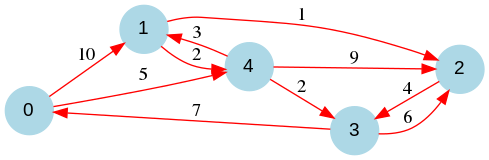
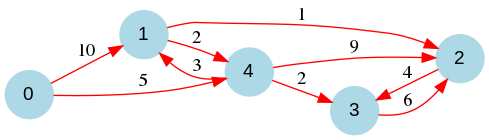
fichier .la to graph (exemple2) + Readme

diff --git a/programme2/adjacence_list.c b/programme2/adjacence_list.c
@@ -35,7 +35,6 @@ void addEdge(T_graphLA *g, int s, int d, int weight)
   // insert at the right place to have an ordered linked list
   if (g->tAdj[s] == NULL || g->tAdj[s]->vertexNumber >= d)
   {
-    //printf("\n%d\n",(int)g->tAdj[s]->vertexNumber);
     newNode->pNext = g->tAdj[s];
     g->tAdj[s] = newNode;
   }
@@ -163,48 +162,86 @@ T_graphLA *matToAdj(const char *filename)
   fclose(fp);
   return g;
 }
+
+T_graphLA *laToAdj(const char *filename)
+{
+  FILE *fp;
+  CHECK_IF(fp = fopen(filename, "r"), NULL, "fopen");
+
+  int ligne = 0, size = 0;
+  const char *separators = "\t\n";
+  char line[100];
+
+  // Parcours le file pour connaitre nb_lignes = graph size
+  FILE *fp_copy;
+  CHECK_IF(fp_copy = fopen(filename, "r"), NULL, "fopen");
+
+  while (fgets(line, 100, fp_copy) != NULL)
+  {
+    size++;
+  }
+  T_graphLA *g = newGraphLA(size);
+
+  while (fgets(line, 100, fp) != NULL) //parcours les lignes du fichier fp
+  {
+    char *token = strtok(line, separators); // numéro de ligne
+    while (token != NULL)
+    {
+      if (!isNumber(token))
+      {
+        char *dest = strtok_r(token, "_", &token); //strtok_r est ré-entrant
+        if (isNumber(dest) && isNumber(token))
+        {
+          addEdge(g, ligne, atoi(dest), atoi(token));
+        }
+      }
+      token = strtok(NULL, separators);
+    }
+    ligne++;
+  }
+  fclose(fp);
+  return g;
+}
+
 int main(void)
 {
-  T_graphLA *g = newGraphLA(4);
-  addEdge(g, 0, 2, 3);
-  addEdge(g, 2, 3, 4);
-  addEdge(g, 3, 1, 1);
-  addEdge(g, 1, 2, 2);
-  addEdge(g, 0, 1, 9);
+  T_graphLA *g5 = newGraphLA(4);
+  addEdge(g5, 0, 2, 3);
+  addEdge(g5, 2, 3, 4);
+  addEdge(g5, 3, 1, 1);
+  addEdge(g5, 1, 2, 2);
+  addEdge(g5, 0, 1, 9);
 
   //printGraph(g);
   //writeDotGraph("graph.dot", g);
-  showGraphPNG("graph", g);
+  showGraphPNG("graph5", g5);
 
-  T_graphLA *g2 = newGraphLA(8);
-  addEdge(g2, 1, 2, 12);
-  addEdge(g2, 1, 6, 15);
-  addEdge(g2, 2, 3, 21);
-  addEdge(g2, 3, 5, 3);
-  addEdge(g2, 6, 5, 28);
-  addEdge(g2, 3, 8, 19);
-  addEdge(g2, 4, 3, 7);
-  addEdge(g2, 4, 8, 7);
-  addEdge(g2, 5, 8, 14);
-  addEdge(g2, 5, 4, 13);
-  addEdge(g2, 1, 7, 20);
-  addEdge(g2, 6, 3, 17);
-  addEdge(g2, 6, 7, 4);
-  addEdge(g2, 7, 5, 18);
-  addEdge(g2, 7, 8, 45);
-  addEdge(g2, 1, 1, 0);
-  //printGraph(g2);
-  //writeDotGraph("graph2.dot", g2);
-  showGraphPNG("graph2", g2);
-
-  T_graphLA *g3 = matToAdj("graph3.adj");
-  showGraphPNG("graph3", g3);
-
-  T_graphLA *g4 = matToAdj("graph2.adj");
+  T_graphLA *g4 = newGraphLA(8);
+  addEdge(g4, 1, 2, 12);
+  addEdge(g4, 1, 6, 15);
+  addEdge(g4, 2, 3, 21);
+  addEdge(g4, 3, 5, 3);
+  addEdge(g4, 6, 5, 28);
+  addEdge(g4, 3, 8, 19);
+  addEdge(g4, 4, 3, 7);
+  addEdge(g4, 4, 8, 7);
+  addEdge(g4, 5, 8, 14);
+  addEdge(g4, 5, 4, 13);
+  addEdge(g4, 1, 7, 20);
+  addEdge(g4, 6, 3, 17);
+  addEdge(g4, 6, 7, 4);
+  addEdge(g4, 7, 5, 18);
+  addEdge(g4, 7, 8, 45);
   showGraphPNG("graph4", g4);
 
-  T_graphLA *g5 = matToAdj("graph1.adj");
-  showGraphPNG("graph5", g5);
+  T_graphLA *g1 = laToAdj("input/la/graph1.la");
+  showGraphPNG("graph1", g1);
+
+  T_graphLA *g2 = laToAdj("input/la/graph2.la");
+  showGraphPNG("graph2", g2);
+
+  T_graphLA *g3 = laToAdj("input/la/graph3.la");
+  showGraphPNG("graph3", g3);
 
   return 0;
 }
